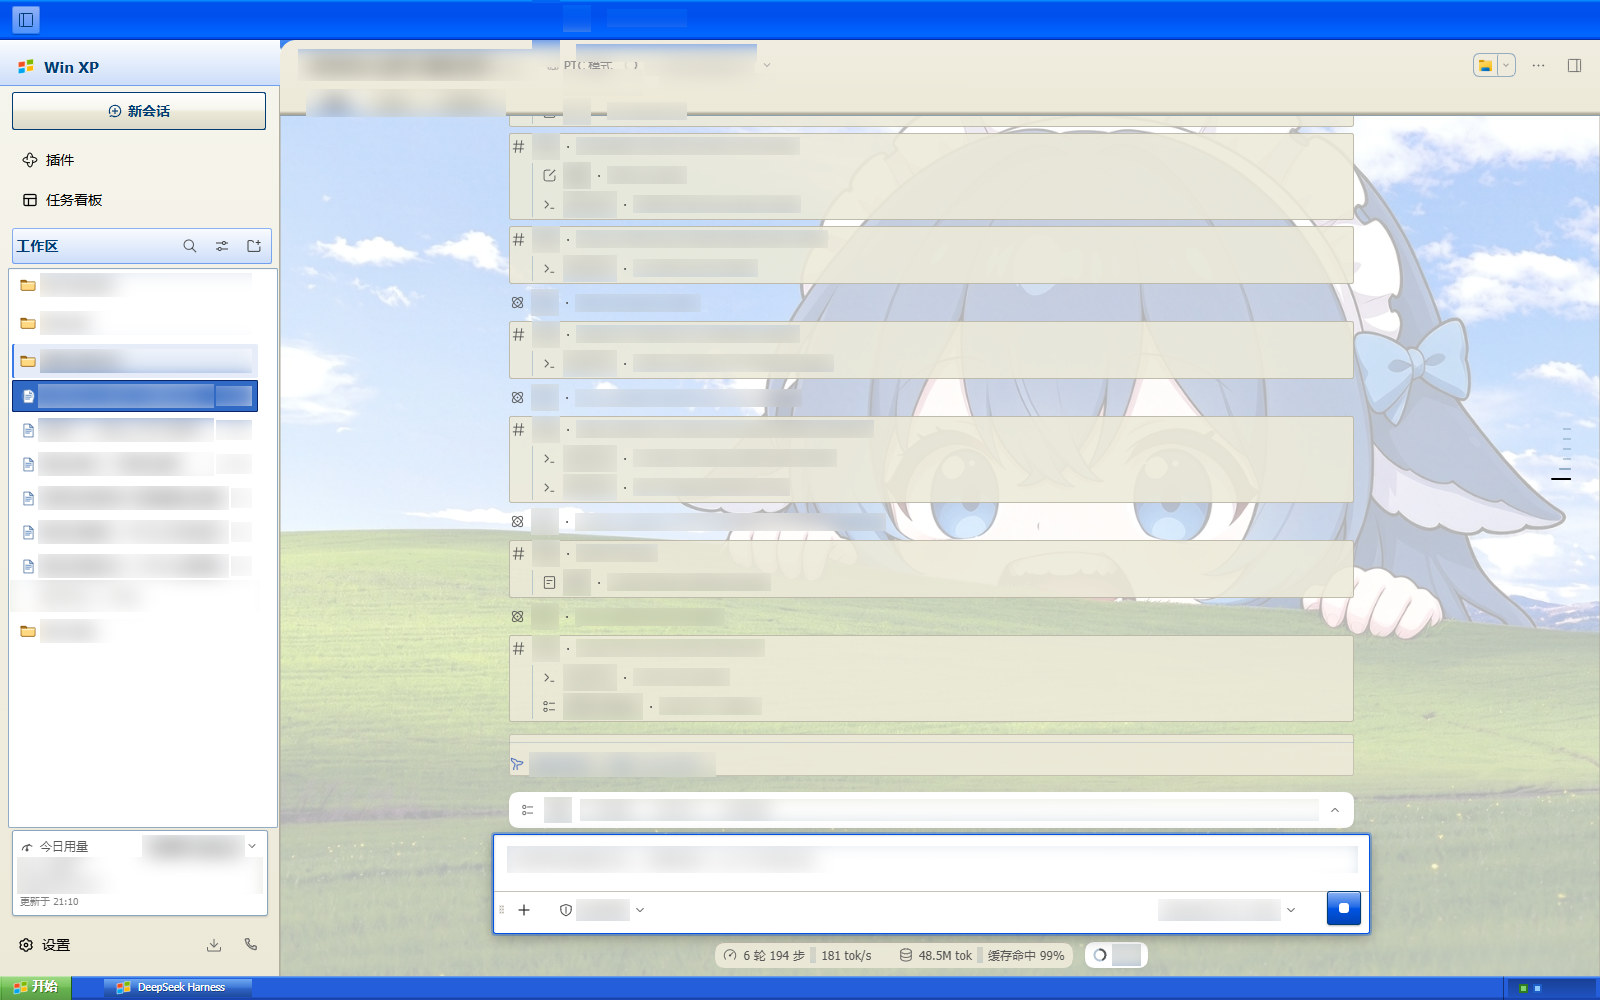
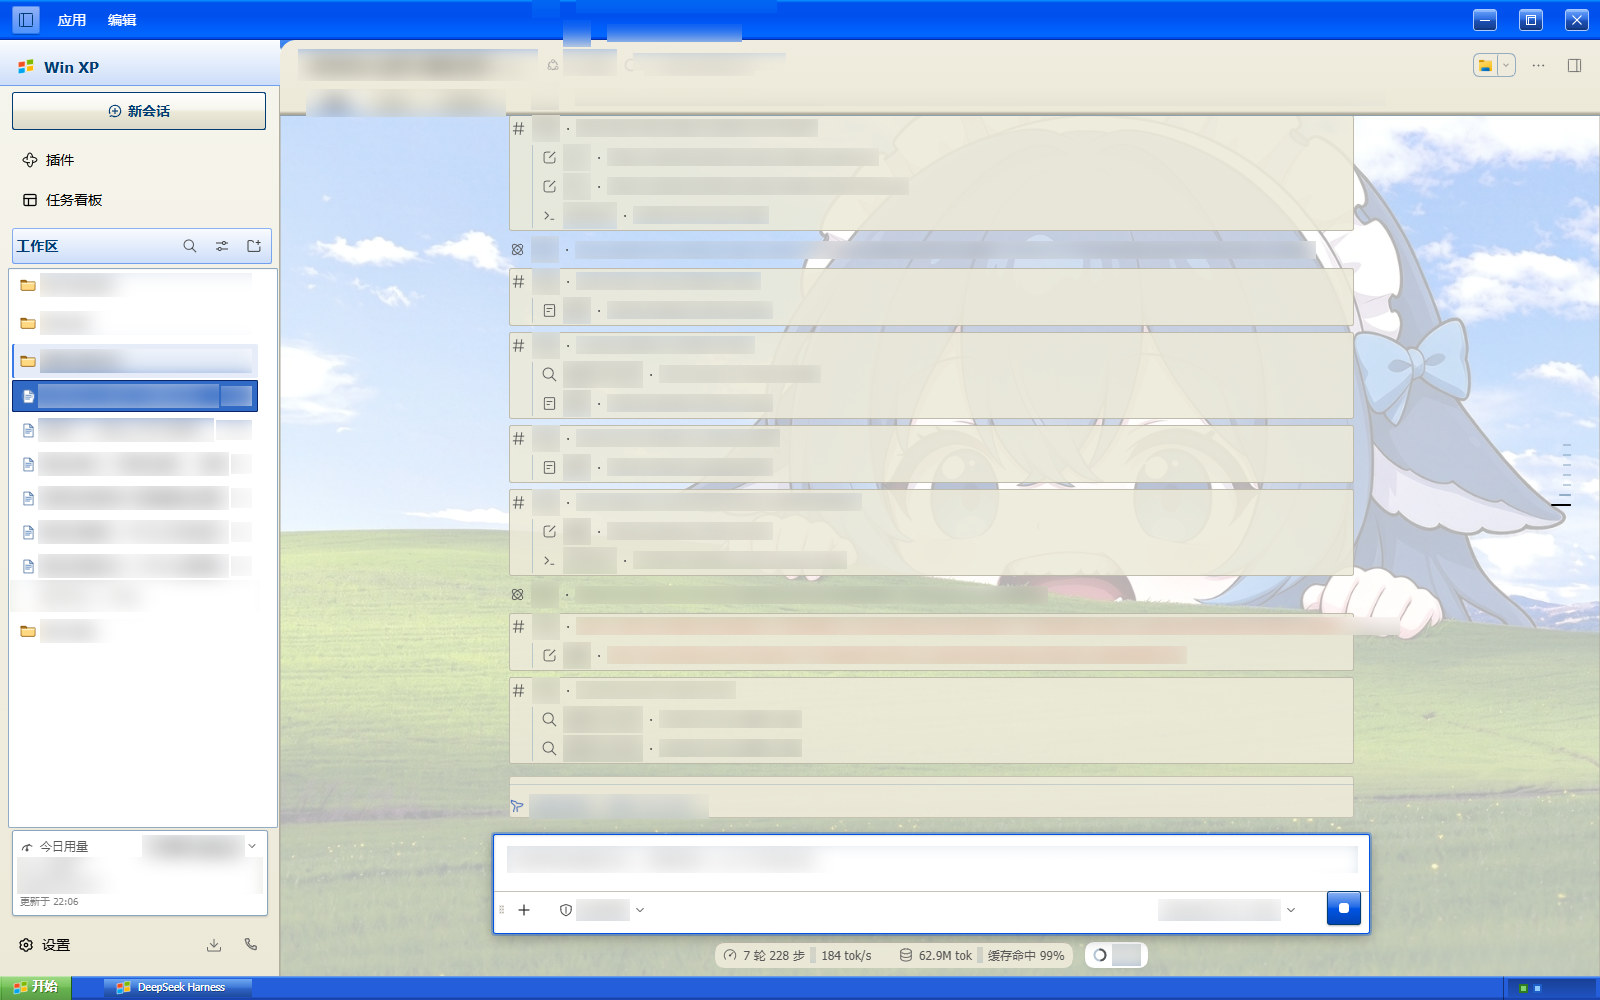
feat(skins): draw XP caption plates under the window keys
- the top-right of the window bar now carries three XP caption plates
  (23x21, light rim, Luna gradient), placed at Windows' 46 px cell pitch
  and right-aligned, so the OS-drawn minimise / restore / close glyphs
  land in the middle of each; the bar itself is unchanged
- the dark theme gets its own plate gradient
- docs: the same row in both READMEs, and the evidence page states that
  the preload menu and the OS glyphs are placeholders in the screenshots
- evidence re-shot

diff --git a/skins/windows-xp/patches.css b/skins/windows-xp/patches.css
@@ -262,7 +262,22 @@ body[data-ds-dark-theme] * {
    「标题栏结束、下面两台窗口的横带开始」的那条分界。 */
 [data-dsh-frame]::before {
   background-color: #0050EE !important;
-  background-image: linear-gradient(180deg, #0997FF 0%, #0053EE 7%, #0050EE 40%, #0066FF 86%, #0066FF 92%, #003DD7 95%, #0055FB 97.5%, #0831D9 100%) !important;
+  /* 顶栏从右往左：三个 XP 小方块 + 那条蓝渐变。方块是**给自己画的**，
+     系统那三颗按钮（最小化 / 还原 / 关闭）画在它上面 —— 覆盖层现在是透明的，
+     我们的方块正好从底下透出来，白字落在方块中央（4.7:1 以上）。
+     位置按实测的 Windows 格子来：**每格 46px、右对齐**（真机量到三颗字形的中心在
+     x 2444.5 / 2490.5 / 2536.5，间距正好 46，最后一格贴窗口右缘），
+     所以三层同一张 46x40 的图分别钉在 right 0 / 46 / 92。
+     中间那颗是「最大化还是还原」由系统决定，我们不画字形，永远是对的。
+     换分辨率或系统字号（格子宽度变了）时方块会与字形错位 —— 这条写进已知限制。 */
+  background-image:
+    url(assets/xp-caption-plate.svg),
+    url(assets/xp-caption-plate.svg),
+    url(assets/xp-caption-plate.svg),
+    linear-gradient(180deg, #0997FF 0%, #0053EE 7%, #0050EE 40%, #0066FF 86%, #0066FF 92%, #003DD7 95%, #0055FB 97.5%, #0831D9 100%) !important;
+  background-size: 46px 40px, 46px 40px, 46px 40px, 100% 100% !important;
+  background-position: right 0 center, right 46px center, right 92px center, left top !important;
+  background-repeat: no-repeat, no-repeat, no-repeat, no-repeat !important;
   box-shadow: inset 0 -1px 0 #0000004d;
 }
 /* V0b · 顶栏上那两个字「应用 / 编辑」：桌面端 preload 注入的一颗 div[data-windows-menu]，
@@ -786,7 +801,10 @@ a:hover {
    品牌蓝的 chip 只有 2.3:1。给一层「桌面图标底下那种打光」——柔光，不是面板，
    画还是画。暗色那张的夜空本来就够暗，不加。 */
 [data-content-phase='hero'] {
-  background-image: radial-gradient(58% 24% at 50% 40%, #ffffffb3 0%, #ffffff57 46%, transparent 78%);
+  background-image: radial-gradient(62% 26% at 50% 41%, #ffffffb3 0%, #ffffff57 46%, transparent 80%);
+  /* R6c：顶栏那 40px 让中栏整块下移，首屏那几颗建议 chip 因此落在壁纸的另一段上
+     （暗色实测从 ≥4.5 掉到 4.13:1）。柔光跟着放大一档、暗色中段压到 0.45 —— 还是柔光，
+     不是面板；再往上加会把画压死。 */
   background-repeat: no-repeat !important;
 }
 
@@ -1372,7 +1390,22 @@ body[data-ds-dark-theme] [data-dsh-frame] {
    「标题栏结束、下面两台窗口的横带开始」的那条分界。 */
 body[data-ds-dark-theme] [data-dsh-frame]::before {
   background-color: #232E3B !important;
-  background-image: linear-gradient(180deg, #6B7C92 0%, #2C3948 7%, #232E3B 40%, #3B4B5F 86%, #3B4B5F 92%, #141C25 95%, #2F3E50 97.5%, #101821 100%) !important;
+  /* 顶栏从右往左：三个 XP 小方块 + 那条蓝渐变。方块是**给自己画的**，
+     系统那三颗按钮（最小化 / 还原 / 关闭）画在它上面 —— 覆盖层现在是透明的，
+     我们的方块正好从底下透出来，白字落在方块中央（4.7:1 以上）。
+     位置按实测的 Windows 格子来：**每格 46px、右对齐**（真机量到三颗字形的中心在
+     x 2444.5 / 2490.5 / 2536.5，间距正好 46，最后一格贴窗口右缘），
+     所以三层同一张 46x40 的图分别钉在 right 0 / 46 / 92。
+     中间那颗是「最大化还是还原」由系统决定，我们不画字形，永远是对的。
+     换分辨率或系统字号（格子宽度变了）时方块会与字形错位 —— 这条写进已知限制。 */
+  background-image:
+    url(assets/xp-caption-plate-dark.svg),
+    url(assets/xp-caption-plate-dark.svg),
+    url(assets/xp-caption-plate-dark.svg),
+    linear-gradient(180deg, #6B7C92 0%, #2C3948 7%, #232E3B 40%, #3B4B5F 86%, #3B4B5F 92%, #141C25 95%, #2F3E50 97.5%, #101821 100%) !important;
+  background-size: 46px 40px, 46px 40px, 46px 40px, 100% 100% !important;
+  background-position: right 0 center, right 46px center, right 92px center, left top !important;
+  background-repeat: no-repeat, no-repeat, no-repeat, no-repeat !important;
   box-shadow: inset 0 -1px 0 #00000073;
 }
 /* V0b · 顶栏上那两个字「应用 / 编辑」：桌面端 preload 注入的一颗 div[data-windows-menu]，
@@ -1896,7 +1929,10 @@ body[data-ds-dark-theme] [data-phase='hero'] {
    品牌蓝的 chip 只有 2.3:1。给一层「桌面图标底下那种打光」——柔光，不是面板，
    画还是画。暗色那张的夜空本来就够暗，不加。 */
 body[data-ds-dark-theme] [data-content-phase='hero'] {
-  background-image: radial-gradient(58% 26% at 50% 40%, #0000008c 0%, #00000042 46%, transparent 78%);
+  background-image: radial-gradient(62% 30% at 50% 41%, #0000009e 0%, #00000073 40%, #00000033 62%, transparent 82%);
+  /* R6c：顶栏那 40px 让中栏整块下移，首屏那几颗建议 chip 因此落在壁纸的另一段上
+     （暗色实测从 ≥4.5 掉到 4.13:1）。柔光跟着放大一档、暗色中段压到 0.45 —— 还是柔光，
+     不是面板；再往上加会把画压死。 */
   background-repeat: no-repeat !important;
 }
 

diff --git a/skins/windows-xp/README.md b/skins/windows-xp/README.md
@@ -44,6 +44,7 @@ There are no constants shared between the two groups.
 | window title bar | top 40 px of the viewport (`[data-dsh-frame]::before`) | eight-stop Luna gradient (graphite blue in dark) with a dark bottom hairline. This strip **is** the application's real caption — the OS window keys are drawn at its right end |
 | 应用 / 编辑 menu | `body > div[data-windows-menu]` (injected by the desktop preload, inside a shadow root) | a shadow root only lets a stylesheet reach **inherited** tokens, so the skin re-declares those few on the host element: white labels, translucent white hover |
 | system window keys | Electron `titleBarOverlay` (not reachable from CSS) | the preload measures a probe span's `--dsw-specific-sidebar-fill` and `--dsw-alias-label-primary` and forwards them to `setTitleBarOverlay()`; the skin sets those two tokens **on that span** — transparent fill, white symbols — so the keys land on the blue bar |
+| three caption plates (23x21, light rim, XP blue gradient) | top-right of the window bar, drawn by the skin; the OS glyphs land in the middle of them | a 46x40 tile placed three times at `right 0 / 46 / 92`, matching Windows' 46 px caption cell (measured centres 2444.5 / 2490.5 / 2536.5 at 100%) |
 | four-colour window icon | left of the brand row | inline SVG as a background-image |
 | sidebar task pane header | the sidebar's top row (`logoRow`) | white highlight fading into pale blue, a white hairline on top and a brand-blue one below; 「Win XP」 is dark blue bold (9.5:1 light / 6.9:1 dark) |
 | sidebar toggle | the shell's own toggle | a uniform light key with a dark blue glyph (inverted in dark). It has two landing spots a stylesheet cannot tell apart — the sidebar's task pane header in the browser, the caption's top-left corner on the desktop — so one style has to read on both |

diff --git a/skins/windows-xp/README.zh.md b/skins/windows-xp/README.zh.md
@@ -38,6 +38,7 @@
 | 窗口标题栏 | 视口最顶上那 40px（`[data-dsh-frame]::before`） | 八段 Luna 蓝渐变（暗色石墨蓝）+ 下缘深色发丝。这一条**就是**应用的窗口标题栏 —— 系统那三个窗口键就画在它右端 |
 | 「应用 / 编辑」菜单 | `body > div[data-windows-menu]`（桌面端 preload 注入，在影子根里） | 影子根只让样式表碰到**继承下来的** token，所以皮肤在宿主那一层重下那几支：白字 + 半透明悬停 |
 | 系统窗口三键 | Electron `titleBarOverlay`（CSS 碰不到） | preload 会量一个 probe span 的 `--dsw-specific-sidebar-fill` 与 `--dsw-alias-label-primary` 交给 `setTitleBarOverlay()`；皮肤把这两支 token 下到**那个 span 自己**身上 —— 底全透明 + 符号白，三个键就落在蓝条上 |
+| 三块标题栏小方块（23x21，浅描边 + XP 蓝渐变） | 窗口条右上角，**皮肤自己画的**；系统的字形正好落在方块正中 | 一张 46x40 的图钉三次（`right 0 / 46 / 92`），对齐 Windows 那 46px 的标题栏格（100% 缩放下实测中心 2444.5 / 2490.5 / 2536.5） |
 | 四色旗窗口图标 | 品牌行左侧 | 内联 SVG 当 background-image |
 | 侧栏任务窗格标题带 | 侧栏顶上那行（`logoRow`） | 白高光渐到淡蓝，上缘一道白线、下缘一条品牌蓝发丝；「Win XP」深蓝粗体（浅色 9.5:1 / 暗色 6.9:1） |
 | 收起侧边栏 | 壳自带的「收起侧边栏」 | 均匀的浅键 + 深蓝图标（暗色反相）。它有两种落点、样式表分不出来 —— 网页端在侧栏的任务窗格标题带上，桌面端在窗口标题栏左上角 —— 所以一颗键要在两种底上都读得清 |
